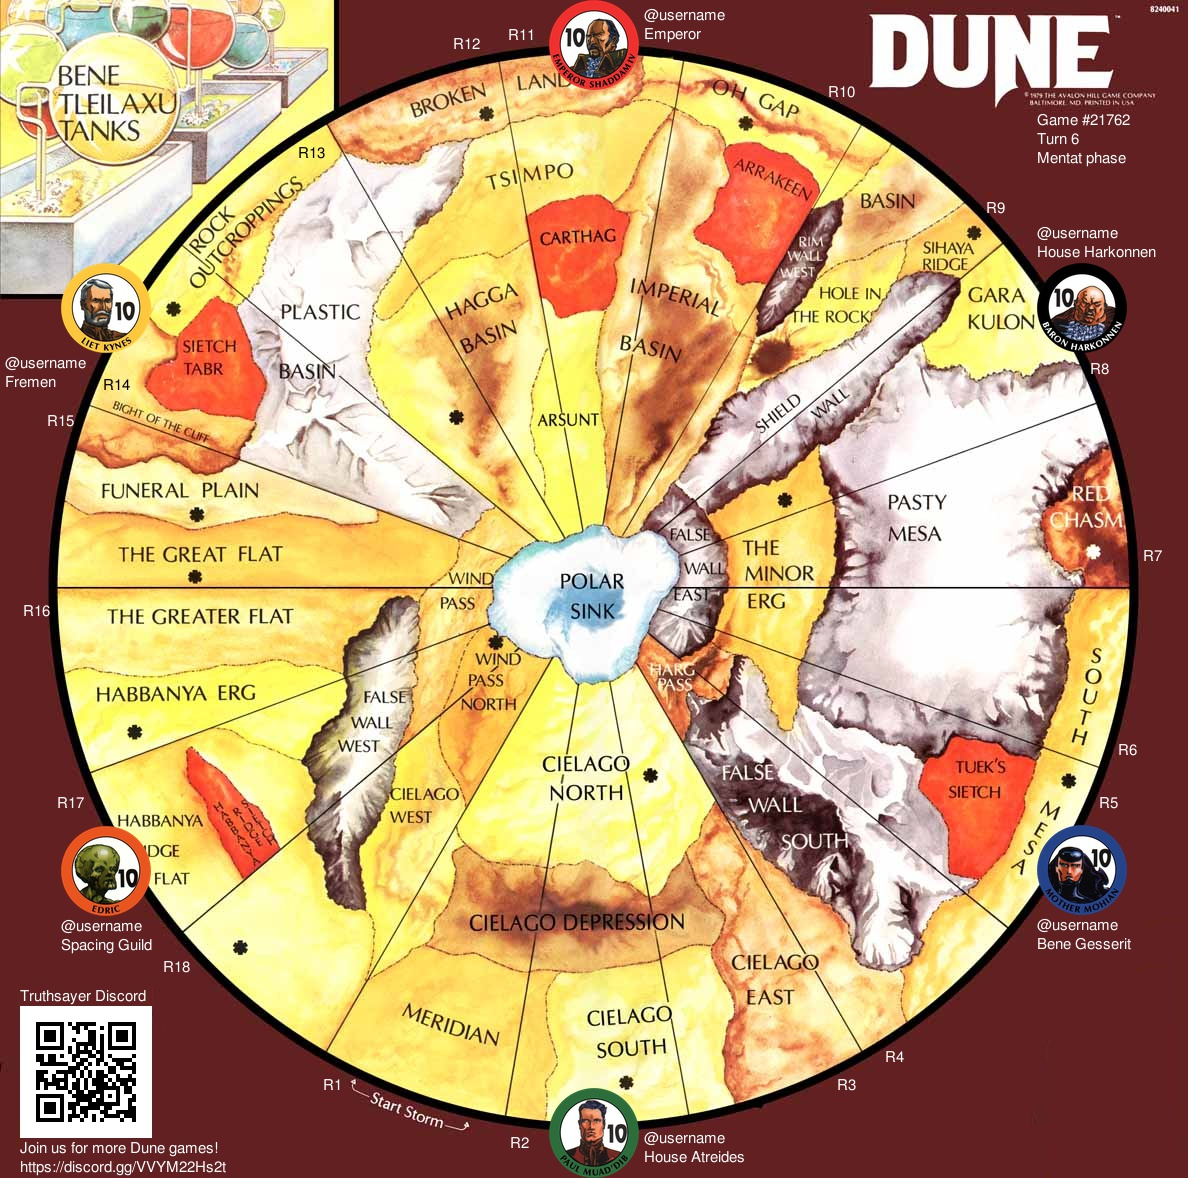
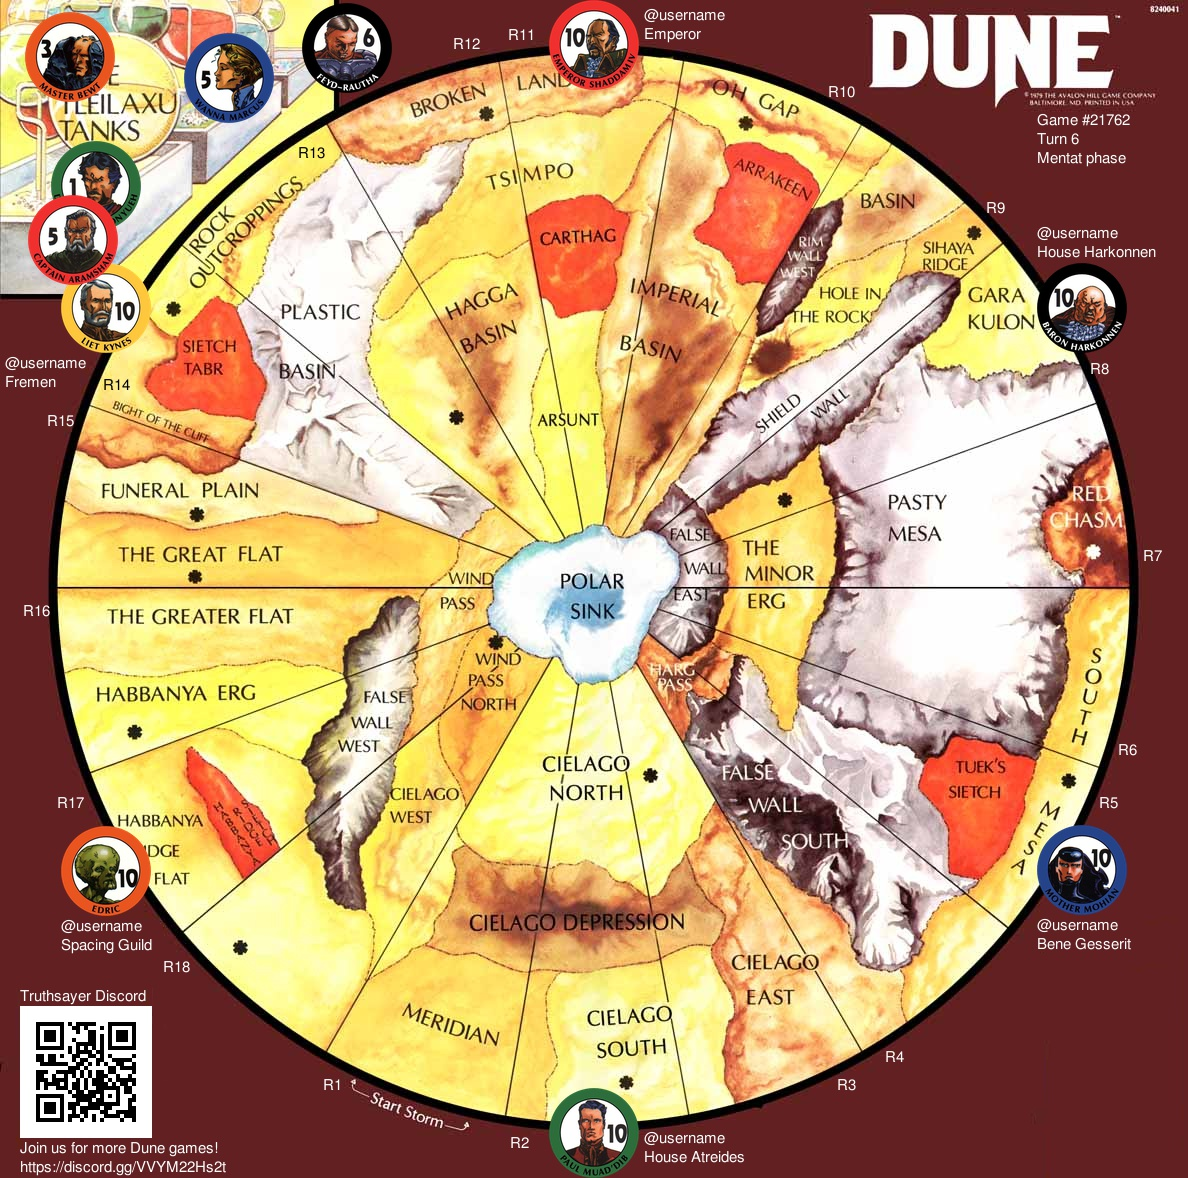
first test of heuristic token placement

Changed region(s): [[0.1557, 0.0, 0.3426, 0.1222], [0.0, 0.1222, 0.1246, 0.2445], [0.0, 0.0, 0.0934, 0.0917]]

diff --git a/arrakis/poly.py b/arrakis/poly.py
@@ -1,5 +1,14 @@
+import random
+
 from bs4 import BeautifulSoup
+
 from shapely.geometry import Polygon, LineString
+from shapely.affinity import translate
+from shapely.geometry.point import Point
+
+from simpleai.search import SearchProblem
+from simpleai.search.traditional import greedy
+from simpleai.search.local import beam
 
 try:
     import importlib.resources as pkg_resources
@@ -92,3 +101,118 @@ def findCenters(areas, locations, skip=[]):
             centroid = location_polygon.centroid
             centers[location] = tuple([centroid.x, centroid.y])
     return centers
+
+
+def generate_random(number, polygon, centroid=False):
+    points = []
+    minx, miny, maxx, maxy = polygon.bounds
+    while len(points) < number:
+        pnt = Point(random.uniform(minx, maxx), random.uniform(miny, maxy))
+        if polygon.contains(pnt):
+            points.append(pnt)
+    if len(points) == 0:
+        return [polygon.centroid]
+    return points
+
+
+class TokenPlacementProblem(SearchProblem):
+    def __init__(self, polygons_maximize_overlap, polygons_avoid_overlap_areas, target_radius, tolerance=0.1, initial_state=None):
+        self.polygons_maximize_overlap = polygons_maximize_overlap
+        self.polygons_avoid_overlap_areas = polygons_avoid_overlap_areas
+        self.target_radius = target_radius
+        self.tolerance = tolerance
+        super().__init__(initial_state=initial_state)
+
+    def actions(self, state):
+        possible_actions = []
+        state_polygon = self.polygonize(state)
+        if state_polygon.intersects(self.polygons_maximize_overlap):
+            return list([(-5, -5), (-5, 0), (0, -5), (5, 5), (5, 0), (0, 5)])
+        else:
+            return []
+
+    def result(self, state, action):
+        xoff, yoff = action
+        x, y = state
+        # state_center = Point(x, y)
+        # state_polygon = state_center.buffer(self.target_radius)
+        # translated = translate(state, xoff=xoff, yoff=yoff, zoff=0.0)
+        return x+xoff, y+yoff
+
+    def polygonize(self, state):
+        x, y = state
+        state_center = Point(x, y)
+        return state_center.buffer(self.target_radius)
+
+    def is_goal(self, state):
+        state_polygon = self.polygonize(state)
+        for avoid in self.polygons_avoid_overlap_areas:
+            if state_polygon.intersection(avoid).area > self.tolerance:
+                return False
+        return True
+
+    def cost(self, state, action, state2):
+        return 1
+
+    def heuristic(self, state):
+        # how far are we from the goal?
+        bad = 0
+        state_polygon = self.polygonize(state)
+        for avoid in self.polygons_avoid_overlap_areas:
+            area = state_polygon.intersection(avoid).area
+            if area > self.tolerance:
+                bad += area
+        bad += state_polygon.area - state_polygon.intersection(self.polygons_maximize_overlap).area
+        # print(type(bad))
+        return bad
+
+    def generate_random_state(self):
+        state_center = generate_random(1, self.polygons_maximize_overlap, centroid=True)[0]
+        state = state_center.x, state_center.y
+        return state
+
+    def value(self, state):
+        # how good is this state?
+        return -self.heuristic(state)
+
+def placeToken(
+        areas,
+        locations,
+        location_regions,
+        target_location,
+        target_radius,
+        target_region=None,
+        avoid_leaders=[],
+        avoid_tokens=[],
+        avoid_spice=[],
+        radius_leader=90,
+        radius_token=45,
+        radius_spice=45):
+    polygons_maximize_overlap = Polygon(areas['polygons'][target_location])
+    if target_region is not None:
+        polygons_region = Polygon(areas['polygons'][target_region])
+        polygons_maximize_overlap = polygons_maximize_overlap.intersection(polygons_region)
+    avoid_overlap_areas = []
+    for x, y in avoid_leaders:
+        center = Point(x, y)
+        polygon_avoid_leader = center.buffer(radius_leader)
+        avoid_overlap_areas.append(polygon_avoid_leader)
+    for x, y in avoid_tokens:
+        center = Point(x, y)
+        polygon_avoid_token = center.buffer(radius_token)
+        avoid_overlap_areas.append(polygon_avoid_token)
+    for x, y in avoid_spice:
+        center = Point(x, y)
+        polygon_avoid_spice = center.buffer(radius_spice)
+        avoid_overlap_areas.append(polygon_avoid_spice)
+    state_center = generate_random(1, polygons_maximize_overlap, centroid=True)[0]
+    state = state_center.x, state_center.y
+    # state = state_center.buffer(target_radius)
+    # solve it
+    problem = TokenPlacementProblem(polygons_maximize_overlap, avoid_overlap_areas, target_radius, tolerance=0.1, initial_state=state)
+    # result = greedy(problem, graph_search=False, viewer=None)
+    result = beam(problem, beam_size=20, iterations_limit=20)
+    # solution = result.state
+    # centroid = solution.centroid
+    # return tuple([centroid.x, centroid.y])
+    return result.state

diff --git a/arrakis/generator.py b/arrakis/generator.py
@@ -25,7 +25,7 @@ def makeQR(data, box_size=4, border=4):
     return qr_code
 
 
-def generate(factions, tanks, territories, texts, outfile, quality=95):
+def generate(factions, tanks, territories, dead_leaders, texts, outfile, quality=95):
     leader_size = 90
     filename = pkg_resources.open_binary(assets, 'map.png')
     canvas = Image.open(filename)
@@ -107,6 +107,17 @@ def generate(factions, tanks, territories, texts, outfile, quality=95):
             x_info = 5
             y_info = int(height_canvas/2)+dy+int(width_token/2)
         d.text((x_info, y_info), texts['usernames'][i], font=fnt, fill='white')
+    # dead leaders in the tleilaxu_tanks
+    for x, y, disc_filename in dead_leaders:
+        filename = pkg_resources.open_binary(assets, disc_filename)
+        token = Image.open(filename)
+        token = token.convert('RGBA')
+        token = token.resize((leader_size, leader_size), Image.ANTIALIAS)
+        width_token, height_token = token.size
+        dx = int(width_token/2)
+        dy = int(height_token/2)
+        box_target = (x-dx, y-dy, x+dx, y+dy)
+        canvas.paste(token, box_target, mask=token)
     # game info
     reg = 2*math.pi/18
     angle = (-3*2+4)*reg+reg/2

diff --git a/setup.py b/setup.py
@@ -10,7 +10,7 @@ setuptools.setup(
     long_description_content_type="text/markdown",
     author = 'Marek Narozniak',
     author_email = '',
-    install_requires=['pillow', 'qrcode', 'beautifulsoup4==4.8.1'],
+    install_requires=['pillow', 'qrcode', 'beautifulsoup4==4.8.1', 'simpleai'],
     url = 'https://github.com/marekyggdrasil/arrakis',
     classifiers=[
         "Programming Language :: Python :: 3",
